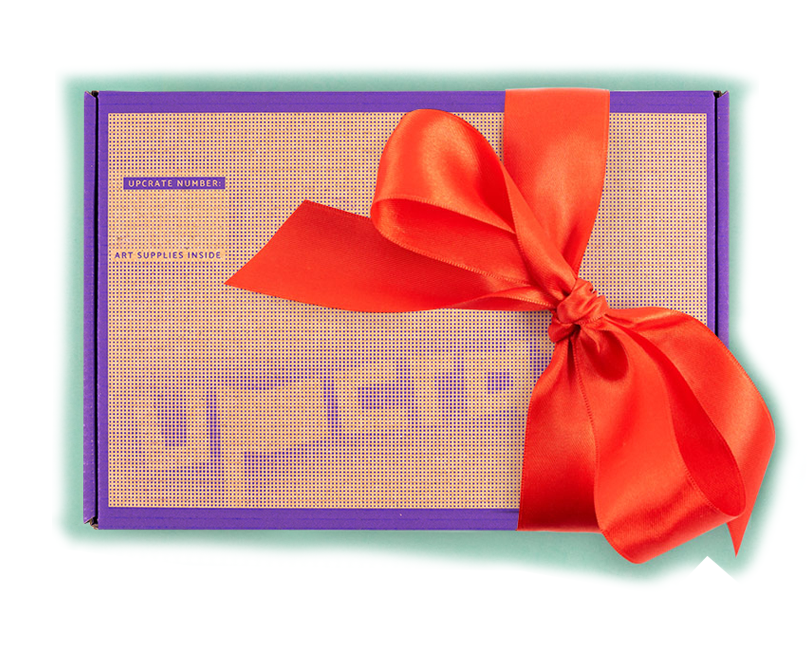
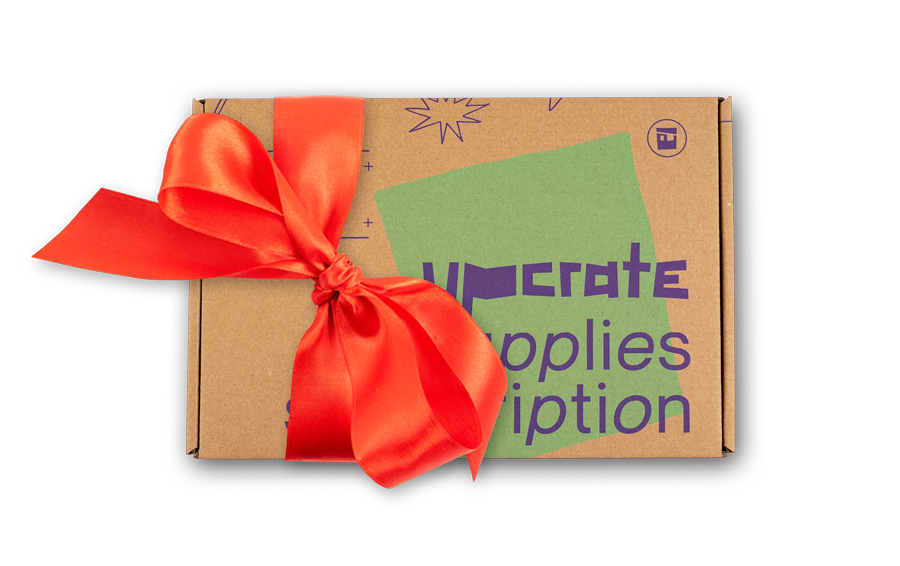
feat: mainly images replaced

diff --git a/components/sections/upcrate-battle-section.tsx b/components/sections/upcrate-battle-section.tsx
@@ -25,47 +25,47 @@ export function UpcrateBattleSection() {
         </div>
         <div className="md:flex align-center justify-center md:space-x-20 md:text-xl text-purple-dark">
           <div className="mt-10">
-            <h4 className="text-left mb-3">TOPIC: Colorless beauty</h4>
-            <Image src="/upcrate-battle/topic01.png" width={330} height={330} />
+            <h4 className="text-left mb-3">TOPIC: Sketched Dreams</h4>
+            <Image src="/upcrate-battle/topic01.jpg" width={330} height={330} />
             <div className="flex items-end justify-between">
               <div className="text-bold">#upcrate19</div>
               <a
                 className="text-sm"
-                href="https://www.instagram.com/jj8.kaiser.art/"
+                href="https://www.instagram.com/shania_bo/"
                 target="_blank"
                 rel="noopener noreferrer"
               >
-                @jj8.kaiser.art
+                @shania_bo
               </a>
             </div>
           </div>
           <div className="mt-10">
-            <h4 className="text-left mb-3">TOPIC: Crystal clear</h4>
-            <Image src="/upcrate-battle/topic02.png" width={330} height={330} />
+            <h4 className="text-left mb-3">TOPIC: Mysterious Mind</h4>
+            <Image src="/upcrate-battle/topic02.jpg" width={330} height={330} />
             <div className="flex items-end justify-between">
               <div className="text-bold">#upcrate16</div>
               <a
                 className="text-sm"
-                href="https://www.instagram.com/@trinkety/"
+                href="https://www.instagram.com/lapetiteruse/"
                 target="_blank"
                 rel="noopener noreferrer"
               >
-                @trinkety
+                @lapetiteruse
               </a>
             </div>
           </div>
           <div className="mt-10">
-            <h4 className="text-left mb-3">TOPIC: Magical fantasy</h4>
-            <Image src="/upcrate-battle/topic03.png" width={330} height={330} />
+            <h4 className="text-left mb-3">TOPIC: What can you see</h4>
+            <Image src="/upcrate-battle/topic03.jpg" width={330} height={330} />
             <div className="flex items-end justify-between">
               <div className="text-bold">#upcrate11</div>
               <a
                 className="text-sm"
-                href="https://www.instagram.com/rangie_art/"
+                href="https://www.instagram.com/chantalachtelik/"
                 target="_blank"
                 rel="noopener noreferrer"
               >
-                @rangie_art
+                @chantalachtelik
               </a>
             </div>
           </div>
@@ -98,9 +98,9 @@ export function UpcrateBattleSection() {
           <div className="md:grid grid-cols-3 gap-20 mt-6">
             <div className="mt-5 md:mt-0">
               <Image
-                src="/upcrate-battle/how-to-01.png"
-                width={389}
-                height={311}
+                src="/upcrate-battle/how-to-01.jpg"
+                width={600}
+                height={480}
               />
               <div className="flex justify-between">
                 <span className="font-bold font-display text-5xl">1.</span>
@@ -109,9 +109,9 @@ export function UpcrateBattleSection() {
             </div>
             <div className="mt-5 md:mt-0">
               <Image
-                src="/upcrate-battle/how-to-02.png"
-                width={389}
-                height={311}
+                src="/upcrate-battle/how-to-02.jpg"
+                width={600}
+                height={480}
               />
               <div className="flex justify-between text-right">
                 <span className="font-bold font-display text-5xl">2.</span>
@@ -120,9 +120,9 @@ export function UpcrateBattleSection() {
             </div>
             <div className="mt-5 md:mt-0">
               <Image
-                src="/upcrate-battle/how-to-03.png"
-                width={389}
-                height={311}
+                src="/upcrate-battle/how-to-03.jpg"
+                width={600}
+                height={480}
               />
               <div className="flex justify-between text-right">
                 <span className="font-bold font-display text-5xl">3.</span>

diff --git a/components/sections/the-bottle-post-section.tsx b/components/sections/the-bottle-post-section.tsx
@@ -15,7 +15,7 @@ export function TheBottlePostSection() {
         </h3>
 
         <div className="max-w-8xl mt-5 md:mt-10 mx-auto text-center">
-          <Image src="/the-bottle-post/big.png" width={1620} height={764} />
+          <Image src="/the-bottle-post/big.jpg" width={1951} height={489} />
 
           <div className="w-full h-full">
             <div className="flex flex-col text-purple-dark h-full justify-items-end mt-5 md:mt-0 md:text-xl">
@@ -26,44 +26,44 @@ export function TheBottlePostSection() {
               <div className="flex gap-6 md:gap-20 mt-5 md:mt-16 max-w-8xl mx-auto">
                 <Parallax offset={50}>
                   <a
-                    href="https://shop.upcrate.art/product/upcrate20-april-2021/"
+                    href="https://shop.upcrate.art/product/upcrate31-march-2022_589/"
                     target="_blank"
                     rel="noopener noreferrer"
                   >
                     <Image
-                      src="/the-bottle-post/small01.png"
+                      src="/the-bottle-post/small01.jpg"
                       width={500}
                       height={500}
                     />
-                    <div className="text-xs md:text-xl">#upcrate20</div>
+                    <div className="text-xs md:text-xl">#upcrate31</div>
                   </a>
                 </Parallax>
                 <Parallax offset={50}>
                   <a
-                    href="https://shop.upcrate.art/product/upcrate19-march-2021/"
+                    href="https://shop.upcrate.art/product/upcrate28-december-2021-123/"
                     target="_blank"
                     rel="noopener noreferrer"
                   >
                     <Image
-                      src="/the-bottle-post/small02.png"
+                      src="/the-bottle-post/small02.jpg"
                       width={500}
                       height={500}
                     />
-                    <div className="text-xs md:text-xl">#upcrate19</div>
+                    <div className="text-xs md:text-xl">#upcrate28</div>
                   </a>
                 </Parallax>
                 <Parallax offset={50}>
                   <a
-                    href="https://shop.upcrate.art/product/upcrate16-december-2020/"
+                    href="https://shop.upcrate.art/product/upcrate26-october-2021485843/"
                     target="_blank"
                     rel="noopener noreferrer"
                   >
                     <Image
-                      src="/the-bottle-post/small03.png"
+                      src="/the-bottle-post/small03.jpg"
                       width={500}
                       height={500}
                     />
-                    <div className="text-xs md:text-xl">#upcrate16</div>
+                    <div className="text-xs md:text-xl">#upcrate26</div>
                   </a>
                 </Parallax>
               </div>

diff --git a/components/sections/featured-artists-section.tsx b/components/sections/featured-artists-section.tsx
@@ -21,7 +21,7 @@ export function FeaturedArtistsWeWorkedWithSection() {
           <div className="grid gap-10 md:gap-20">
             <div>
               <Image
-                src="/home/featured-artists/featured-01.png"
+                src="/home/featured-artists/featured-01.jpg"
                 width={385}
                 height={385}
                 layout="responsive"
@@ -30,17 +30,17 @@ export function FeaturedArtistsWeWorkedWithSection() {
                 <div className="text-bold">#upcrate14</div>
                 <a
                   className="text-sm"
-                  href="https://www.instagram.com/r.os_art/"
+                  href="https://www.instagram.com/neimykanani/"
                   target="_blank"
                   rel="noopener noreferrer"
                 >
-                  @r.os_art
+                  @neimykanani
                 </a>
               </div>
             </div>
             <div>
               <Image
-                src="/home/featured-artists/featured-02.png"
+                src="/home/featured-artists/featured-02.jpg"
                 width={385}
                 height={385}
                 layout="responsive"
@@ -49,11 +49,11 @@ export function FeaturedArtistsWeWorkedWithSection() {
                 <div className="text-bold">#upcrate7</div>
                 <a
                   className="text-sm"
-                  href="https://www.instagram.com/boxadessin/"
+                  href="https://www.instagram.com/myweirdart_/"
                   target="_blank"
                   rel="noopener noreferrer"
                 >
-                  @boxadessin
+                  @myweirdart_
                 </a>
               </div>
             </div>
@@ -86,20 +86,20 @@ export function FeaturedArtistsWeWorkedWithSection() {
             </div>
             <div>
               <Image
-                src="/home/featured-artists/featured-04.png"
+                src="/home/featured-artists/featured-04.jpg"
                 width={385}
                 height={385}
                 layout="responsive"
               />
               <div className="flex items-end justify-between text-purple-dark text-2xl mt-2">
-                <div className="text-bold">#upcrate1</div>
+                <div className="text-bold">#upcrate5</div>
                 <a
                   className="text-sm"
-                  href="https://www.instagram.com/kloodwig/"
+                  href="https://www.instagram.com/clemstjw/"
                   target="_blank"
                   rel="noopener noreferrer"
                 >
-                  @kloodwig
+                  @clemstjw
                 </a>
               </div>
             </div>

diff --git a/components/sections/faq-section.tsx b/components/sections/faq-section.tsx
@@ -1,6 +1,7 @@
 import useTranslation from "next-translate/useTranslation";
 import React from "react";
 import { Accordion } from "../elements/accordion";
+import { FormattedText } from "../elements/formatted-text";
 import { RadialGradient } from "../elements/radial-gradient";
 
 interface Faq {
@@ -89,7 +90,7 @@ export function FaqSection() {
         <h3 className="font-display text-purple-dark text-center text-2xl md:text-5xl">
           {t("pages.faqs.title")}
         </h3>
-        {faqs.map((faq) => (
+        {faqs.map((faq, key) => (
           <Accordion
             key={faq.question}
             question={
@@ -98,9 +99,20 @@ export function FaqSection() {
               </p>
             }
             answer={
-              <p className="text-xl text-left max-w-4xl font-light text-purple-dark">
-                {faq.answer}
-              </p>
+              <>
+                <p className="text-xl text-left max-w-4xl font-light text-purple-dark">
+                  {key === 0 ? (
+                    <FormattedText
+                      transKey={faq.answer}
+                      delimiter={[
+                        <a className="underline" href="/subscriptions" />,
+                      ]}
+                    />
+                  ) : (
+                    <>{faq.answer}</>
+                  )}
+                </p>
+              </>
             }
           />
         ))}

diff --git a/components/sections/invite-friends-section.tsx b/components/sections/invite-friends-section.tsx
@@ -4,7 +4,7 @@ import { useRandomHeads } from "../../hooks/use-random-heads";
 import { Button } from "../elements/button";
 import { Parallax } from "../elements/parallax";
 import { Caret } from "../elements/svg";
-import { UpcrateArtcrewSvg } from "../elements/svg/upcrate-artcrew-svg";
+import Image from "next/image";
 
 export function InviteFriendsSection() {
   const { t } = useTranslation("common");
@@ -21,9 +21,9 @@ export function InviteFriendsSection() {
           </h3>
 
           <div className="relative md:p-10 border-l-2 border-purple-dark border-t-2 border-r-2 border-b-2 md:border-b-0 mt-10 p-4 bg-white opacity-95 md:opacity-100">
-            <div className="flex justify-center items-center flex-col md:gap-20 md:mt-32 relative">
+            <div className="flex justify-center items-center flex-col md:gap-20 md:mt-16 relative">
               <Parallax>
-                <UpcrateArtcrewSvg />
+                <Image src="/artcrew/invite.jpg" width={900} height={542} />
               </Parallax>
               <div className="max-w-4xl mx-auto text-lg md:text-3xl relative z-10 -mx-4 md:m-0 p-4 md:p-0 bg-white md:bg-transparent">
                 {t("sections.invite_friends.text")}

diff --git a/tailwind.config.js b/tailwind.config.js
@@ -74,7 +74,7 @@ module.exports = {
         "crates-image-section": "url('/crates/image-section.png')",
         "artcrew-image-section01": "url('/artcrew/image-section01.png')",
         "artcrew-image-section02": "url('/artcrew/image-section02.png')",
-        "artcrew-image-section03": "url('/artcrew/image-section03.png')",
+        "artcrew-image-section03": "url('/artcrew/image-section03.jpg')",
         "artcrew-image-section04": "url('/artcrew/image-section04.png')",
         "artcrew-image-section05": "url('/artcrew/image-section05.png')",
         "crates-hero": "url('/crates/hero-image.png')",

diff --git a/components/sections/animated-unbox-your-creativity-section.tsx b/components/sections/animated-unbox-your-creativity-section.tsx
@@ -27,11 +27,7 @@ export function AnimatedUnboxYourCreativitySection() {
         <UnboxYourCreativitySvg />
         <div className="-mt-12">
           <Parallax offset={100}>
-            <Image
-              src="/home/unbox-your-creativity/unbox-box.png"
-              width={596}
-              height={620}
-            />
+            <Image src="/box.png" width={1064} height={560} />
           </Parallax>
         </div>
       </div>

diff --git a/components/sections/upcrate-as-a-gift-section.tsx b/components/sections/upcrate-as-a-gift-section.tsx
@@ -51,7 +51,7 @@ export function UpcrateAsGiftSection() {
             animate={isVisible ? "visible" : "hidden"}
             transition={{ duration: 1, ease: "easeOut" }}
           >
-            <Image src="/upcrate-as-gift/box.png" width={808} height={661} />
+            <Image src="/upcrate-as-gift/box.png" width={900} height={566} />
           </motion.div>
         </Parallax>
         <Button

diff --git a/components/sections/how-it-works-section.tsx b/components/sections/how-it-works-section.tsx
@@ -50,7 +50,7 @@ export function HowItWorksSection() {
                 3.
               </span>
               <Image
-                src="/how-it-works/how-it-works-section03.png"
+                src="/how-it-works/how-it-works-section03.jpg"
                 layout="intrinsic"
                 width={389}
                 height={311}
